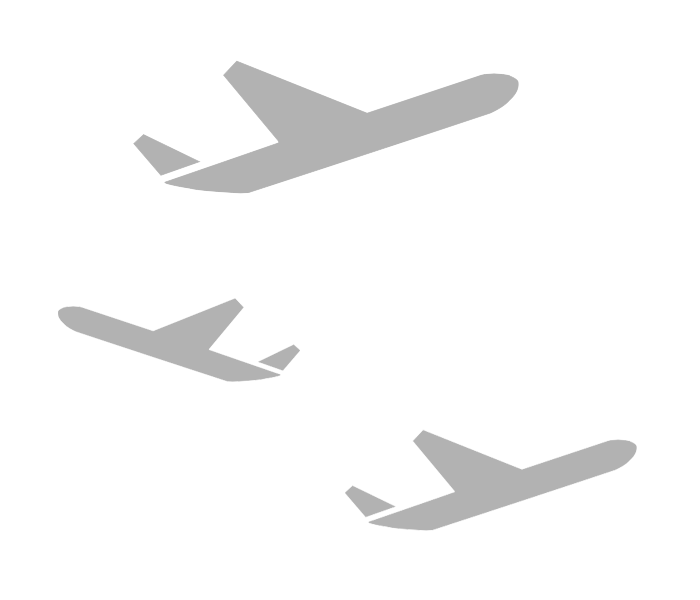
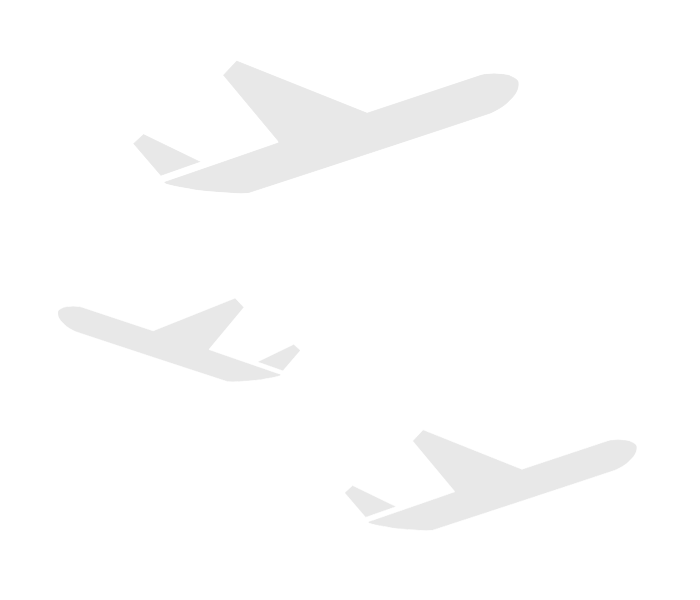
Styling, reindenting, theming and reorganising. noscript block to explain why the site is not working if javascript is not turned on.

Changed region(s): [[0.18, 0.09, 0.75, 0.33], [0.48, 0.72, 0.93, 0.9], [0.06, 0.48, 0.45, 0.66]]

diff --git a/app/index.html b/app/index.html
@@ -1,122 +1,131 @@
 <!doctype html>
-<!--[if lt IE 7]>      <html class="no-js lt-ie9 lt-ie8 lt-ie7"> <![endif]-->
-<!--[if IE 7]>         <html class="no-js lt-ie9 lt-ie8"> <![endif]-->
-<!--[if IE 8]>         <html class="no-js lt-ie9"> <![endif]-->
-<!--[if gt IE 8]><!--> <html class="no-js"> <!--<![endif]-->
+<!--[if lt IE 7]>      <html class="no-js lt-ie9 lt-ie8 lt-ie7" lang="fi"> <![endif]-->
+<!--[if IE 7]>         <html class="no-js lt-ie9 lt-ie8" lang="fi"> <![endif]-->
+<!--[if IE 8]>         <html class="no-js lt-ie9" lang="fi"> <![endif]-->
+<!--[if gt IE 8]><!--> <html class="no-js" lang="fi"> <!--<![endif]-->
 <head>
-  <meta charset="utf-8">
-  <meta http-equiv="X-UA-Compatible" content="IE=edge,chrome=1">
-  <title>Lentolaskuri</title>
-  <link rel="shortcut icon" href="favicon.ico" type="image/x-icon">
-  <link rel="icon" href="favicon.ico" type="image/x-icon">
-  <meta name="description" content="">
-  <meta name="viewport" content="width=device-width">
-  <link rel="stylesheet" href="styles/main.css">
+    <meta charset="utf-8">
+    <meta http-equiv="X-UA-Compatible" content="IE=edge,chrome=1">
+    <title>Lentolaskuri</title>
+    <link rel="shortcut icon" href="favicon.ico" type="image/x-icon">
+    <link rel="icon" href="favicon.ico" type="image/x-icon">
+    <meta name="description" content="">
+    <meta name="viewport" content="width=device-width">
+    <link rel="stylesheet" href="styles/main.css">
 </head>
 <body>
 
-  <div class="container calculator">
-    <div class="row">
-      <div class="span12">
-        <h1>Lentolaskuri</h1>
-      </div>
-    </div>
-
-    <noscript>
-      <div class="alert">
-        Lentolaskuri vaatii toimiakseen JavaScriptin, jota sinulla ei näytä olevan päällä.<br>
-        <a href="http://www.enable-javascript.com" target="_blank">JavaScriptin saat päälle näitä ohjeita noudattamalla.</a>
-      </div>
-    </noscript>
-
-    <div class="row">
-      <div class="span6 js-enabled-content">
-
-        <div class="row-fluid">
-          <div class="span4 passengersWidget">
-            <legend>
-              Matkustajia
-            </legend>
-            <input type="number" placeholder="1" class="span12" />
-          </div>
-          <div class="span8 roundtripWidget">
-            <legend>&nbsp;</legend>
-            <div class="btn-group">
-              <button type="button" class="btn active">Meno</button>
-              <button type="button" class="btn roundtrip">Meno-paluu</button>
+    <div class="container calculator">
+        <div class="row">
+            <div class="span12">
+                <h1>Lentolaskuri</h1>
             </div>
-          </div>
         </div>
 
+        <noscript>
+            <div class="alert">
+                Lentolaskuri vaatii toimiakseen JavaScriptin, jota sinulla ei näytä olevan päällä.<br>
+                <a href="http://www.enable-javascript.com" target="_blank">JavaScriptin saat päälle näitä ohjeita noudattamalla.</a>
+            </div>
+        </noscript>
 
-        <div class="row-fluid">
-          <div class="span12">
-            <legend>Reitti</legend>
-            <div class="route"></div>
-          </div>
+        <div class="row">
+            <div class="span6 js-enabled-content">
+                <div class="row-fluid">
+                    <div class="span4 passengersWidget">
+                        <legend>Matkustajia</legend>
+                        <input type="number" placeholder="1" class="span12" />
+                    </div>
+                    <div class="span8 roundtripWidget">
+                        <legend>&nbsp;</legend>
+                        <div class="btn-group">
+                            <button type="button" class="btn active">Meno</button>
+                            <button type="button" class="btn roundtrip">Meno-paluu</button>
+                        </div>
+                    </div>
+                </div>
+
+
+                <div class="row-fluid">
+                    <div class="span12">
+                        <legend>Reitti</legend>
+                        <div class="route"></div>
+                    </div>
+                </div>
+
+                <div class="controls row-fluid">
+                    <div class="span12 legInputWidget">
+                        <button class="btn btn-block">
+                            <span>Valitse lentokenttä</span>
+                            <i class="caret"></i>
+                        </button>
+                        <input type="hidden"/>
+                    </div>
+                </div>
+
+                <div class="row-fluid">
+                    <div class="span12 totalWidget"></div>
+                </div>
+
+                <div class="row-fluid">
+                    <div class="span12">
+                        <legend>Kartta</legend>
+                        <div id="gmap" class="map"></div>
+                    </div>
+                </div>
+
+            </div>
+
+            <div class="span6 textcontent">
+                <ul class="nav nav-tabs">
+                    <li class="active"><a href="#payment" data-toggle="tab">Maksu</a></li>
+                    <li><a href="#operation" data-toggle="tab">Laskurin toiminta</a></li>
+                </ul>
+                <div class="tab-content">
+                    <div class="tab-pane active" id="payment">
+
+                        <h2>Miksi lentomaksu?</h2>
+                        <p>
+                            Vapaaehtoisella lentomaksulla osoitat ottavasi
+                            vastuuta kulutuksesi ympäristövaikutuksista.
+                        </p>
+                        <p>
+                            Lentolippujen hintoihin ei sisälly lentomatkoista syntyvien
+                            ilmastovaikutusten kustannuksia vaan ne jäävät nykyisten ja
+                            tulevien polvien maksettavaksi. Maksu ei kompensoi päästöjäsi,
+                            koska emme voi taata, että rahoitettavilla hankkeilla saavutetaan
+                            lentosi päästöjä vastaavat päästövähennykset.
+                        </p>
+                        <p>
+                            Sen sijaan maksu tukee kestävän kehityksen arvojen mukaista
+                            yleishyödyllistä kohdetta, joka suoraan ja välillisesti
+                            auttaa saavuttamaan päästövähennyksiä. Vapaaehtoisen päästömaksun
+                            tarkoitus on herätellä huomaamaan lentoliikenteen ilmastovaikutuksia
+                            ja kannustaa pohtimaan liikkumisvalintoja.
+                        </p>
+
+
+                    </div>
+                    <div class="tab-pane" id="operation"></div>
+                </div>
+
+            </div>
         </div>
 
-        <div class="controls row-fluid">
-          <div class="span12 legInputWidget">
-            <button class="btn btn-block"><span>Valitse lentokenttä</span> <i class="caret"></i></button>
-            <input type="hidden"/>
-          </div>
-        </div>
-
-        <div class="row-fluid">
-          <div class="span12 totalWidget"></div>
-        </div>
-
-        <div class="row-fluid">
-          <div class="span12">
-            <legend>Kartta</legend>
-            <div id="gmap" class="map"></div>
-          </div>
-        </div>
-
-      </div>
-
-      <div class="span6 textcontent">
-        <ul class="nav nav-tabs">
-          <li class="active"><a href="#payment" data-toggle="tab">Maksu</a></li>
-          <li><a href="#operation" data-toggle="tab">Laskurin toiminta</a></li>
-        </ul>
-        <div class="tab-content">
-          <div class="tab-pane active" id="payment">
-
-            <p>
-              Lentolipun hintaan ei sisälly lentomatkasta syntyvien ilmastovaikutusten kustannuksia vaan ne jäävät nykyisten ja tulevien polvien maksettavaksi. Tarjoamme sinulle tamperelaisen päästömaksun, jolla voit osoittaa ottavasi vastuuta kulutuksesi ympäristövaikutuksista. Maksu ei kompensoi päästöjäsi, koska emme voi taata, että rahoitettavilla hankkeilla saavutetaan lentosi päästöjä vastaavat päästövähennykset. Sen sijaan maksu tukee kestävän kehityksen arvojen mukaista yleishyödyllistä kohdetta, joka suoraan ja välillisesti auttaa saavuttamaan päästövähennyksiä. Vapaaehtoisen päästömaksun tarkoitus on herätellä huomaamaan lentoliikenteen ilmastovaikutuksia ja kannustaa pohtimaan liikkumisvalintoja.</p>
-            <p>
-              Lentolaskurilla saat selville, kuinka paljon lentomatkasi tuottaa päästöjä. Laskuri laskee sinulle päästömäärään perusteella päästömaksun. Yhden kasvihuonekaasutonnin hinta on asetettu 25 euroksi.
-            </p>
-            <p>
-              Voit halutessasi lahjoittaa päästömaksun esimerkiksi toiselle Tampereen kaupungin tämän vuotisista kohteista, <a href="http://www.onandjokwe.iway.na">Onandjokwen lähetyssairaalan</a> peruskorjaukseen. Lahjoituksen voit tehdä <a href="http://www.martinus.fi/?sid=12">Martinus-säätiön kautta</a>.
-            </p>
-            <p>
-              Voit myös valita päästömaksullesi jonkin muun kohteen käyttämällä muiden tarjoamia vapaaehtoisia päästömaksupalveluja. Kun pohdit, millaista toimintaa rahoitat vapaaehtoisella päästömaksulla, tutustu, miten paljon rahoitettavista kohteista, rahojen käytöstä ja toiminnan valvonnasta on tietoa tarjolla. Jos aiot käyttää palveluja, jotka lupaavat hyvittää aiheuttamasi päästöt, selvitä, miten tämä lupaus toteutetaan.
-            </p>
-
-          </div>
-          <div class="tab-pane" id="operation"></div>
-        </div>
-
-      </div>
     </div>
 
-  </div>
+    <footer class="footer">
+        <div class="container">
+            <a href="http://www.ekokumppanit.fi/" title="Ekokumppanit" rel="home" class="ekokumppanit">
+                <img src="images/ekokumppanit.png" />
+            </a>
+        </div>
+    </footer>
 
-  <footer class="footer">
-    <div class="container">
-      <a href="http://www.ekokumppanit.fi/" title="Ekokumppanit" rel="home" class="ekokumppanit">
-        <img src="images/ekokumppanit.png" />
-      </a>
-    </div>
-  </footer>
+    <a href="https://github.com/Ekokumppanit/Lentolaskuri"><img style="position: absolute; top: 0; right: 0; border: 0;" src="https://s3.amazonaws.com/github/ribbons/forkme_right_gray_6d6d6d.png" alt="Fork me on GitHub"></a>
 
-  <a href="https://github.com/Ekokumppanit/Lentolaskuri"><img style="position: absolute; top: 0; right: 0; border: 0;" src="https://s3.amazonaws.com/github/ribbons/forkme_right_gray_6d6d6d.png" alt="Fork me on GitHub"></a>
-
-  <!-- build:js scripts/main.js -->
-  <script data-main="scripts/main" src="components/requirejs/require.js"></script>
-  <!-- endbuild -->
+    <!-- build:js scripts/main.js -->
+    <script data-main="scripts/main" src="components/requirejs/require.js"></script>
+    <!-- endbuild -->
 </body>
 </html>

diff --git a/app/styles/main.less b/app/styles/main.less
@@ -18,9 +18,7 @@ body {
 .calculator {
   background-color: rgba(255, 255, 255, 0.9);
   padding: 20px 20px;
-}
 
-.calculator {
   .inactive {
     opacity: 0.5;
   }

diff --git a/app/api/search.php b/app/api/search.php
@@ -5,12 +5,14 @@ require_once('config.php');
 header("Access-Control-Allow-Origin: *");
 
 $search = $mysqli->real_escape_string($_GET['s']);
-$id = $mysqli->real_escape_string($_GET['i']);
+$id     = $mysqli->real_escape_string($_GET['i']);
+
 if (empty($search) && empty($id)) {
 	exit();
 }
 
 $query = "";
+
 if (!empty($search)) {
   $query = "
   SELECT *,
